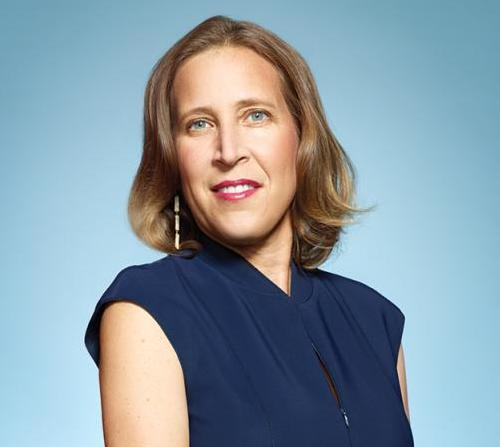
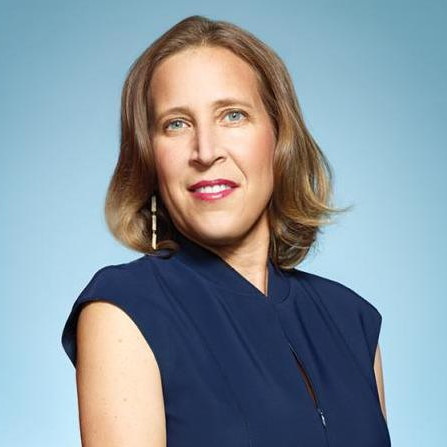
updated judges and removed past sponsors

Changed region(s): [[0.4362, 0.0291, 0.8725, 1.0], [0.1163, 0.0291, 0.4362, 1.0], [0.6107, 0.7852, 0.7271, 0.9597]]

diff --git a/index.html b/index.html
@@ -18,6 +18,7 @@
   <link rel="stylesheet" href="vendors/flat-icon/font/flaticon.css">
 
   <link rel="stylesheet" href="css/style.css">
+  <link rel="stylesheet" href="css/judges.css">
   <link rel="stylesheet" href="css/faq.css">
 
 </head>
@@ -623,68 +624,6 @@
           You can also check out our <a href = "static/MenloHacks V Prospectus.pdf">sponsorship prospectus.</a>
         </p>
       </div>
-      <div class = "sponsor-wrapper mb-5 pb-4">
-        <h2 style="margin-bottom:50px;" class = "primary-text"><center><font size = "15">Thank you to our last year's sponsors!</font></center></h2>
-        <!-- old logos start-->
-        <div class='sponsor-wrapper'>
-            <a href="https://www.kla.foundation/" target='_blank'>
-              <img src="img/old-sponsors/KLA_logo.png"  class='platinum-sponsor'>
-            </a>
-            <br>
-            <a href="https://youtube.com" target='_blank'>
-              <img src="img/old-sponsors/youtube.svg"  class='gold-sponsor'>
-            </a>
-            <br>
-            <a href="http://jwcpartners.com/" target='_blank'>
-              <img src="img/old-sponsors/JWC%20LOGO.jpg"  class='gold-sponsor'>
-            </a>
-            <a href="https://www.idtech.com/" target='_blank'>
-              <img src="img/old-sponsors/idTech.png"  class='gold-sponsor'>
-            </a>
-            <br>
-            <a href="http://veronicakogler.com/" target='_blank'>
-              <img src="img/old-sponsors/veronica.png"  class='silver-sponsor'>
-            </a>
-            <a href="https://www.godaddy.com/" target='_blank'>
-              <img src="img/old-sponsors/GoDaddy%20Logo.png"  class='silver-sponsor'>
-            </a>
-            <br>
-            <a href="https://fracta.ai/" target='_blank'>
-              <img src="img/old-sponsors/fracta.png"  class='silver-sponsor'>
-            </a>
-            <a href="https://www.clearstorydata.com/" target='_blank'>
-              <img src="img/old-sponsors/ClearStory.jpg"  class='silver-sponsor'>
-            </a>
-            <a href="https://sendgrid.com/" target='_blank'>
-              <img src="img/old-sponsors/SG_Logo_White_RGB.png"  class='silver-sponsor'>
-            </a>
-            <br>
-            <a href="https://wdarch.com/" target='_blank'>
-              <img src="img/old-sponsors/WDA.jpg"  class='bronze-sponsor'>
-            </a>
-            <a href="https://www.jivox.com/" target='_blank'>
-              <img src="img/old-sponsors/Jivox_Logo_white.png"  class='bronze-sponsor'>
-            </a>
-            <a href="https://www.weadmit.io/" target='_blank'>
-              <img src="img/old-sponsors/WeAdmitLogo%20(2).png"  class='bronze-sponsor'>
-            </a>
-            <a href="https://www.drinkhint.com/" target='_blank'>
-              <img src="img/old-sponsors/hint_logo.svg"  class='bronze-sponsor'>
-            </a>
-            <a href="http://hackp.ac/mlh-stickermule-hackathons" target='_blank'>
-              <img src="img/old-sponsors/sticker-mule-logo.png"  class='bronze-sponsor'>
-            </a>
-            <a href="http://creperiesaintgermain.com/" target='_blank'>
-              <img src="img/old-sponsors/CSG-logo.png"  class='bronze-sponsor'>
-            </a>
-            <a href="https://www.wolframalpha.com/" target='_blank'>
-              <img src="img/old-sponsors/wolfram.png"  class='bronze-sponsor'>
-            </a>
-
-          </div>
-        <!-- old logos end-->
-        <h2 class = "primary-text"><font size = "15">Coming Soon</font></h2>
-      </div>
 
 
         <!-- <div class="row">
@@ -710,7 +649,6 @@
       <!-- a/n: gold sponsor: mb-4; silver sponsor: mb-5-->
       <!-- Current Sponsors START-->
       <div class="sponsor-wrapper sponsor-wrapper--small">
-        <h3 class="sponsor-title mb-5">Sponsors</h3>
         <div class="row">
           <div class="col-sm-6 col-lg-4 mb-3 mb-lg-0">
               <a href="https://magoosh.com/" target='_blank'>
@@ -765,109 +703,21 @@
   </section>
 </section>
 </section>
-
-  <!--================ Old judge section Start =================-->
-<!--<section id = "old_judges">
-  <section class="section-padding gallery-area gallery-bg">
-    <div class="container">
-      <div class="section-intro section-intro-white text-center pb-98px">
-        <h2 class="primary-text">Thank you to our MenloHacks IV judges!</h2>
-        <img src="img/home/section-style.png" alt="">
-      </div>
-
-      <div class = "row">
-        <div class="col-lg-4 col-sm-6 mb-4 mb-lg-0">
-          <div class="card-speaker-judges">
-            <img class="card-img rounded-0" src="img/old-judges/susan.jpg"  alt="">
-            <div class="speaker-footer">
-              <h4>Susan Wojcicki</h4>
-              <p>CEO, Youtube</p>
-            </div>
-          </div>
-        </div>
-        <div class="col-lg-4 col-sm-6 mb-4 mb-lg-0">
-          <div class="card-speaker-judges">
-            <img class="card-img rounded-0" src="img/old-judges/diaz.jpg"  alt="">
-            <div class="speaker-footer">
-              <h4>Diaz Nesamoney</h4>
-              <p>Founder & CEO, Jivox</p>
-            </div>
-          </div>
-        </div>
-        <div class="col-lg-4 col-sm-6 mb-4 mb-lg-0">
-          <div class="card-speaker-judges">
-            <img class="card-img rounded-0" src="img/old-judges/sharmila.jpg"  alt="">
-            <div class="speaker-footer">
-              <h4>Sharmila Mulligan</h4>
-              <p>CEO & founder, Clearstory Data</p>
-            </div>
-          </div>
-        </div>
-        <div class="col-lg-4 col-sm-6 mb-4 mb-lg-0">
-        <div class="card-speaker-judges">
-          <img class="card-img rounded-0" src="img/old-judges/jeff_huber.jpg" width = "500" height = "295" alt="">
-          <div class="speaker-footer">
-            <h4>Jeff Huber</h4>
-            <p>Vice chairman & founding CEO, Grail</p>
-          </div>
-        </div>
-      </div>
-      <div class="col-lg-4 col-sm-6 mb-4 mb-lg-0">
-        <div class="card-speaker-judges">
-          <img class="card-img rounded-0" src="img/old-judges/joe.jpg" width = "500" height = "295" alt="">
-          <div class="speaker-footer">
-            <h4>Joe Beninato</h4>
-            <p>Director at X, The Moonshot Factory</p>
-          </div>
-        </div>
-      </div>
-      <div class="col-lg-4 col-sm-6 mb-4 mb-lg-0">
-        <div class="card-speaker-judges">
-          <img class="card-img rounded-0" src="img/old-judges/marissa.jpg" width = "500" height = "295" alt="">
-          <div class="speaker-footer">
-            <h4>Marissa Mayer</h4>
-            <p>Former CEO, Yahoo</p>
-          </div>
-        </div>
-      </div>
-      <div class="col-lg-4 col-sm-6 mb-4 mb-lg-0">
-        <div class="card-speaker-judges">
-          <img class="card-img rounded-0" src="img/old-judges/jeff_housenbold.jpg" width = "500" height = "295" alt="">
-          <div class="speaker-footer">
-            <h4>Jeff Housenbold</h4>
-            <p>Managing Partner, Softbank Vision Fund</p>
-          </div>
-        </div>
-      </div>
-    </div>-->
-<!--</section>-->
-  <!--================ Old judge section End=================-->
-
  <!--================ Judge section Start =================-->
-<section id = "judges">
-  <section class="section-padding gallery-area gallery-bg">
-    <div class="container">
-      <div class="section-intro section-intro-white text-center pb-98px">
-        <h2 class="primary-text">Judges</h2>
-        <img src="img/home/section-style.png" alt="">
+  <section id = "judges" class = "wrapper style2">
+    <h2 class="text-center primary-text" >Judges</h2>
+    <div class="judge-wrapper">
+      <div class="judge-div">
+        <img class="judge-image" src="img/judges/susan.jpg">
+        <p>Susan Wojcicki<br>CEO, YouTube</p>
       </div>
-
-      <div class = "row">
-        <div class="col-lg-4 col-sm-6 mb-4 mb-lg-0">
-          <div class="card-speaker-judges">
-            <img class="card-img rounded-0" src="img/judges/susan.jpg"  alt="">
-            <div class="speaker-footer">
-              <h4>Susan Wojcicki</h4>
-              <p>CEO, Youtube</p>
-            </div>
-          </div>
-        </div>
-       
-       
-       </div>
-      
+      <!--================
+       To add a new judge, copy the judge-div div and change the judge name/title/image.
+       ALL JUDGE IMAGES MUST BE PERFECTLY SQUARE. Photoshop to this size.
+       =================-->
     </div>
-</section>
+
+  </section>
   <!--================ Judge section End=================-->
 
 

diff --git a/css/judges.css b/css/judges.css
@@ -1,0 +1,59 @@
+.judge-image {
+    border-radius: 50%;
+    transition: 0.2s filter linear;
+    -webkit-transition: 0.2s -webkit-filter linear;
+    -moz-transition: 0.2s -moz-filter linear;
+    -ms-transition: 0.2s -ms-filter linear;
+    -o-transition: 0.2s -o-filter linear;
+    width: 100%;
+    height: 100%;
+    transition: all .2s linear;
+}
+
+.judge-div {
+    display: inline-block;
+    width: 250px;
+    max-width: 90%;
+    height: 250px;
+    position: relative;
+    margin-left: 25px;
+    margin-right: 25px;
+    margin-bottom: 25px;
+    margin-top: 25px;
+}
+
+.judge-div p {
+    left: 0;
+    position: absolute;
+    text-align: center;
+    top: 50%;
+    transform: translateY(-50%);
+    width: 100%;
+    color: white;
+    text-transform: uppercase;
+    opacity: 0;
+    visibility: hidden;
+    -webkit-transition: visibility opacity 0.2s;
+    transition: opacity .2s ease-in-out;
+    -moz-transition: opacity .2s ease-in-out;
+    -webkit-transition: opacity .2s ease-in-out;
+    line-height: 1.25em;
+}
+
+.judge-div:hover .judge-image{
+    -webkit-filter: grayscale(78%)  blur(10px) contrast(0.5);
+
+}
+
+.judge-div:hover p {
+    visibility: visible;
+    opacity: 1;
+}
+
+.judge-wrapper {
+    margin-left: auto;
+    margin-right: auto;
+    width: 80%;
+    text-align: center;
+    font-size: 16px;
+}
